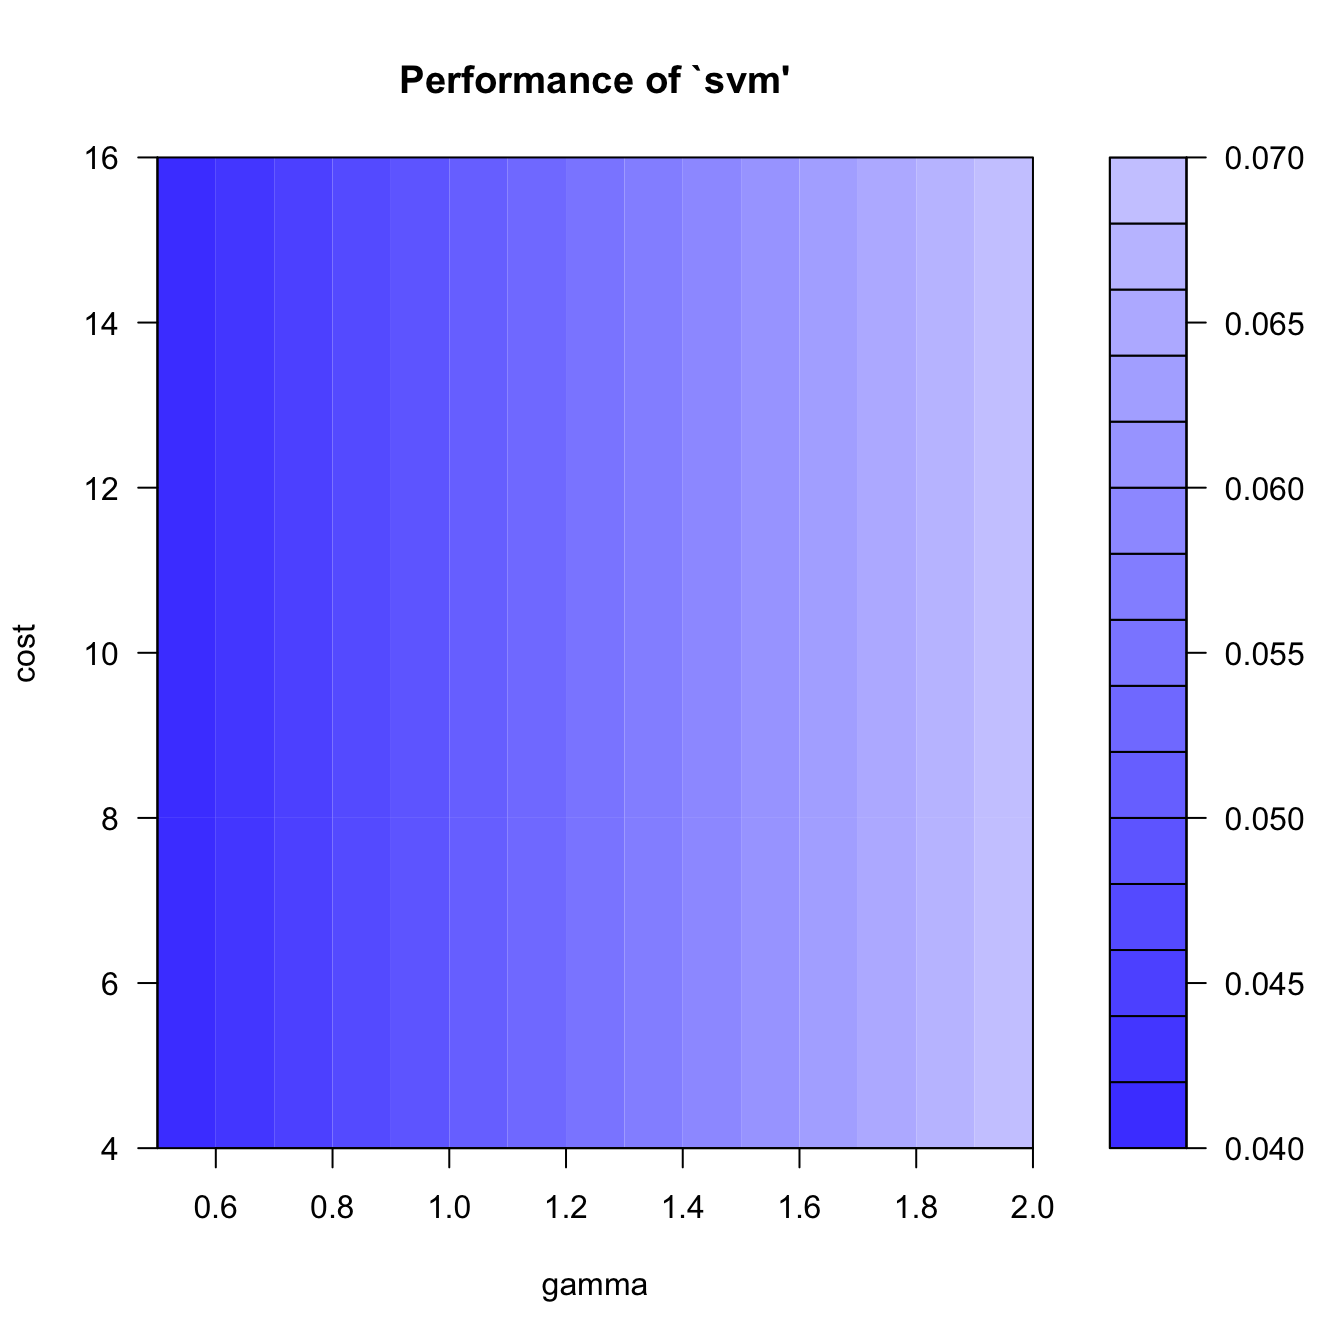
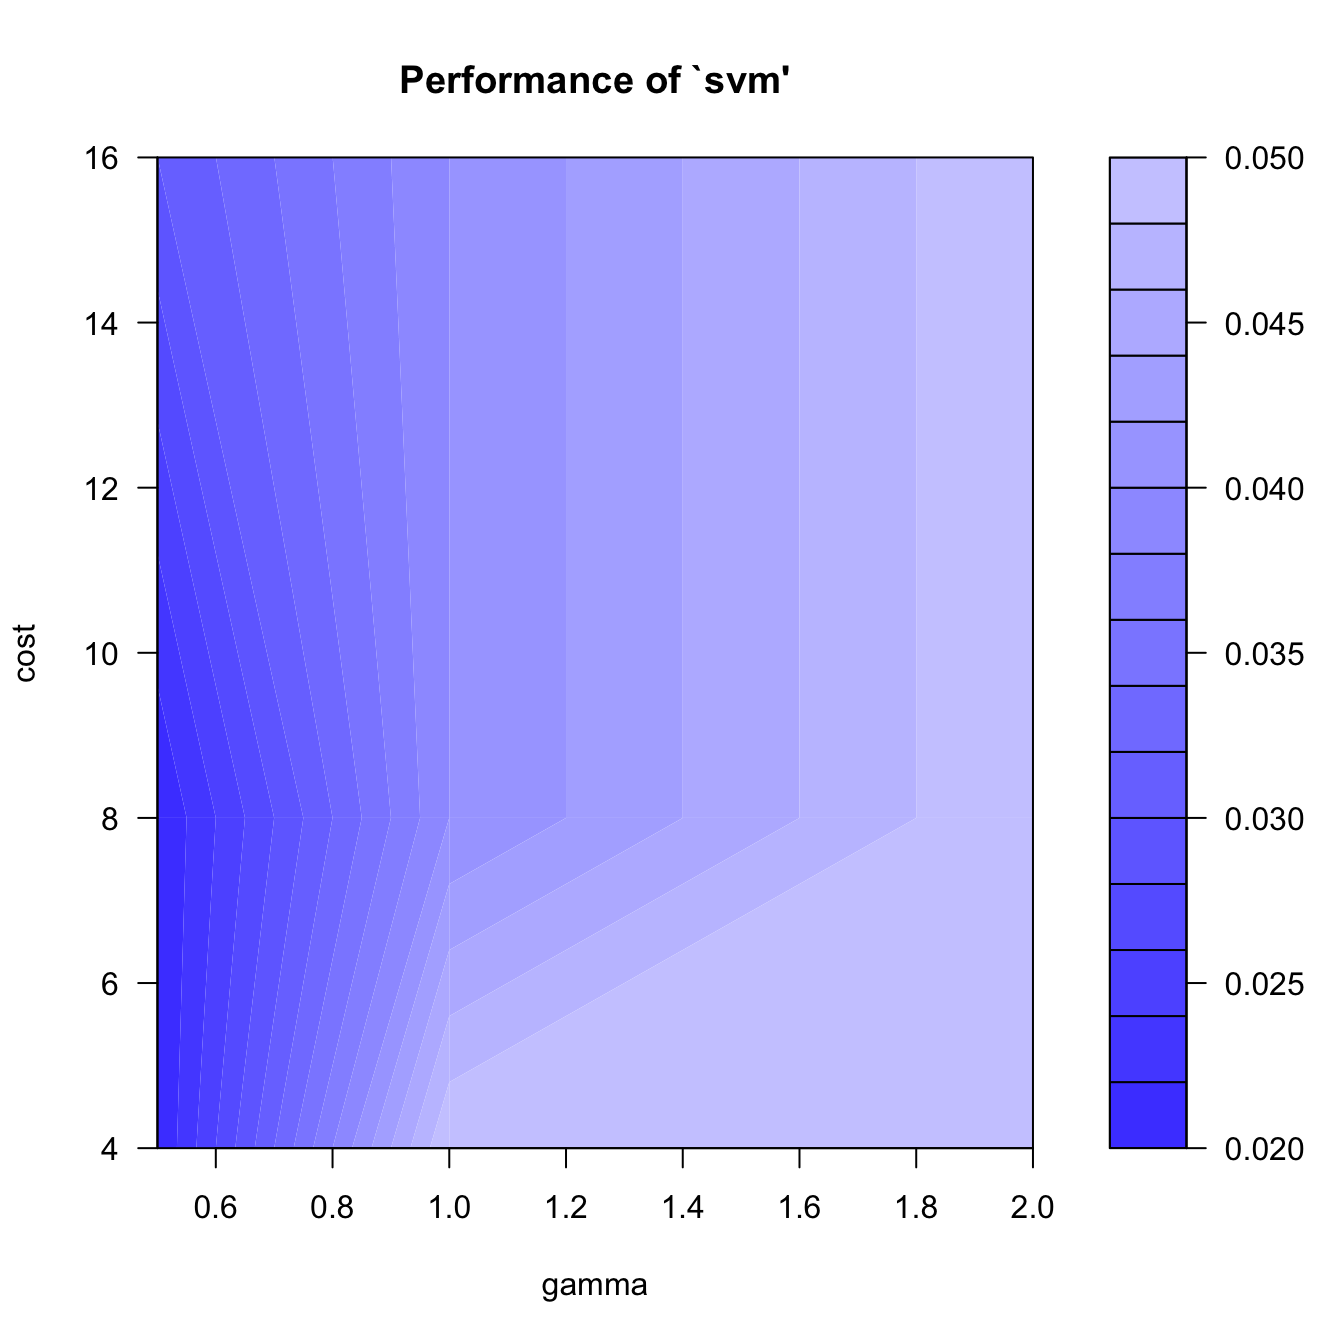
SVM tune

diff --git a/Anne/iris.html b/Anne/iris.html
@@ -11,7 +11,7 @@
 
 <meta name="author" content="Anne Badel" />
 
-<meta name="date" content="2019-03-01" />
+<meta name="date" content="2019-03-11" />
 
 <title>Les Iris</title>
 
@@ -26,8 +26,6 @@
 <script src="iris_files/tocify-1.9.1/jquery.tocify.js"></script>
 <script src="iris_files/navigation-1.1/tabsets.js"></script>
 <script src="iris_files/navigation-1.1/codefolding.js"></script>
-<link href="iris_files/pagedtable-1.1/css/pagedtable.css" rel="stylesheet" />
-<script src="iris_files/pagedtable-1.1/js/pagedtable.js"></script>
 
 
 <style type="text/css">code{white-space: pre;}</style>
@@ -361,7 +359,7 @@ div.tocify {
 
 <h1 class="title toc-ignore">Les Iris</h1>
 <h4 class="author"><em>Anne Badel</em></h4>
-<h4 class="date"><em>2019-03-01</em></h4>
+<h4 class="date"><em>2019-03-11</em></h4>
 
 </div>
 
@@ -421,17 +419,21 @@ specificite &lt;-<span class="st"> </span><span class="cf">function</span>(table
                 
                 </code></pre>
 <div class="sourceCode"><pre class="sourceCode r"><code class="sourceCode r"><span class="kw">head</span>(iris)</code></pre></div>
-<div data-pagedtable="false">
-<script data-pagedtable-source type="application/json">
-{"columns":[{"label":[""],"name":["_rn_"],"type":[""],"align":["left"]},{"label":["Sepal.Length"],"name":[1],"type":["dbl"],"align":["right"]},{"label":["Sepal.Width"],"name":[2],"type":["dbl"],"align":["right"]},{"label":["Petal.Length"],"name":[3],"type":["dbl"],"align":["right"]},{"label":["Petal.Width"],"name":[4],"type":["dbl"],"align":["right"]},{"label":["Species"],"name":[5],"type":["fctr"],"align":["left"]}],"data":[{"1":"5.1","2":"3.5","3":"1.4","4":"0.2","5":"setosa","_rn_":"1"},{"1":"4.9","2":"3.0","3":"1.4","4":"0.2","5":"setosa","_rn_":"2"},{"1":"4.7","2":"3.2","3":"1.3","4":"0.2","5":"setosa","_rn_":"3"},{"1":"4.6","2":"3.1","3":"1.5","4":"0.2","5":"setosa","_rn_":"4"},{"1":"5.0","2":"3.6","3":"1.4","4":"0.2","5":"setosa","_rn_":"5"},{"1":"5.4","2":"3.9","3":"1.7","4":"0.4","5":"setosa","_rn_":"6"}],"options":{"columns":{"min":{},"max":[10]},"rows":{"min":[10],"max":[10]},"pages":{}}}
-  </script>
-</div>
+<pre><code>  Sepal.Length Sepal.Width Petal.Length Petal.Width Species
+1          5.1         3.5          1.4         0.2  setosa
+2          4.9         3.0          1.4         0.2  setosa
+3          4.7         3.2          1.3         0.2  setosa
+4          4.6         3.1          1.5         0.2  setosa
+5          5.0         3.6          1.4         0.2  setosa
+6          5.4         3.9          1.7         0.4  setosa</code></pre>
 <div class="sourceCode"><pre class="sourceCode r"><code class="sourceCode r"><span class="kw">tail</span>(iris)</code></pre></div>
-<div data-pagedtable="false">
-<script data-pagedtable-source type="application/json">
-{"columns":[{"label":[""],"name":["_rn_"],"type":[""],"align":["left"]},{"label":["Sepal.Length"],"name":[1],"type":["dbl"],"align":["right"]},{"label":["Sepal.Width"],"name":[2],"type":["dbl"],"align":["right"]},{"label":["Petal.Length"],"name":[3],"type":["dbl"],"align":["right"]},{"label":["Petal.Width"],"name":[4],"type":["dbl"],"align":["right"]},{"label":["Species"],"name":[5],"type":["fctr"],"align":["left"]}],"data":[{"1":"6.7","2":"3.3","3":"5.7","4":"2.5","5":"virginica","_rn_":"145"},{"1":"6.7","2":"3.0","3":"5.2","4":"2.3","5":"virginica","_rn_":"146"},{"1":"6.3","2":"2.5","3":"5.0","4":"1.9","5":"virginica","_rn_":"147"},{"1":"6.5","2":"3.0","3":"5.2","4":"2.0","5":"virginica","_rn_":"148"},{"1":"6.2","2":"3.4","3":"5.4","4":"2.3","5":"virginica","_rn_":"149"},{"1":"5.9","2":"3.0","3":"5.1","4":"1.8","5":"virginica","_rn_":"150"}],"options":{"columns":{"min":{},"max":[10]},"rows":{"min":[10],"max":[10]},"pages":{}}}
-  </script>
-</div>
+<pre><code>    Sepal.Length Sepal.Width Petal.Length Petal.Width   Species
+145          6.7         3.3          5.7         2.5 virginica
+146          6.7         3.0          5.2         2.3 virginica
+147          6.3         2.5          5.0         1.9 virginica
+148          6.5         3.0          5.2         2.0 virginica
+149          6.2         3.4          5.4         2.3 virginica
+150          5.9         3.0          5.1         1.8 virginica</code></pre>
 <div class="sourceCode"><pre class="sourceCode r"><code class="sourceCode r"><span class="kw">str</span>(iris)</code></pre></div>
 <pre><code>&#39;data.frame&#39;:   150 obs. of  5 variables:
  $ Sepal.Length: num  5.1 4.9 4.7 4.6 5 5.4 4.6 5 4.4 4.9 ...
@@ -548,9 +550,9 @@ Parameters:
        cost:  1 
       gamma:  0.25 
 
-Number of Support Vectors:  33
+Number of Support Vectors:  32
 
- ( 14 5 14 )
+ ( 13 5 14 )
 
 
 Number of Classes:  3 
@@ -587,21 +589,21 @@ knitr<span class="op">::</span><span class="kw">kable</span>(iris.app.conf)</cod
 <tbody>
 <tr class="odd">
 <td>setosa</td>
-<td align="right">38</td>
+<td align="right">31</td>
 <td align="right">0</td>
 <td align="right">0</td>
 </tr>
 <tr class="even">
 <td>versicolor</td>
 <td align="right">0</td>
-<td align="right">29</td>
+<td align="right">31</td>
 <td align="right">0</td>
 </tr>
 <tr class="odd">
 <td>virginica</td>
 <td align="right">0</td>
 <td align="right">1</td>
-<td align="right">32</td>
+<td align="right">37</td>
 </tr>
 </tbody>
 </table>
@@ -646,7 +648,7 @@ knitr<span class="op">::</span><span class="kw">kable</span>(iris.val.conf)</cod
 <tbody>
 <tr class="odd">
 <td>setosa</td>
-<td align="right">12</td>
+<td align="right">19</td>
 <td align="right">0</td>
 <td align="right">0</td>
 </tr>
@@ -654,13 +656,13 @@ knitr<span class="op">::</span><span class="kw">kable</span>(iris.val.conf)</cod
 <td>versicolor</td>
 <td align="right">0</td>
 <td align="right">17</td>
-<td align="right">0</td>
+<td align="right">2</td>
 </tr>
 <tr class="odd">
 <td>virginica</td>
 <td align="right">0</td>
-<td align="right">3</td>
-<td align="right">18</td>
+<td align="right">1</td>
+<td align="right">11</td>
 </tr>
 </tbody>
 </table>
@@ -694,6 +696,8 @@ knitr<span class="op">::</span><span class="kw">kable</span>(perf.val)</code></p
 <h3><span class="header-section-number">2.2.2</span> Recherche des paramètres optimaux</h3>
 <div id="test-des-differents-kernel-avec-leurs-parametres-par-defaut" class="section level4">
 <h4><span class="header-section-number">2.2.2.1</span> Test des différents <code>kernel</code> avec leurs paramètres par défaut</h4>
+<div id="kernel-radial" class="section level5">
+<h5><span class="header-section-number">2.2.2.1.1</span> kernel = <code>radial</code></h5>
 <div class="sourceCode"><pre class="sourceCode r"><code class="sourceCode r">iris.svm.radial &lt;-<span class="st"> </span>e1071<span class="op">::</span><span class="kw">svm</span>(Species <span class="op">~</span><span class="st"> </span>., <span class="dt">data =</span> iris.app, <span class="dt">scale =</span> F)
 <span class="kw">summary</span>(iris.svm.radial)</code></pre></div>
 <pre><code>
@@ -707,9 +711,9 @@ Parameters:
        cost:  1 
       gamma:  0.25 
 
-Number of Support Vectors:  33
+Number of Support Vectors:  32
 
- ( 14 5 14 )
+ ( 13 5 14 )
 
 
 Number of Classes:  3 
@@ -718,8 +722,11 @@ Levels:
  setosa versicolor virginica</code></pre>
 <div class="sourceCode"><pre class="sourceCode r"><code class="sourceCode r">iris.app.conf.radial &lt;-<span class="st"> </span><span class="kw">table</span>(iris.svm.radial<span class="op">$</span>fitted, 
                               iris.app<span class="op">$</span>Species, 
-                              <span class="dt">dnn =</span> <span class="kw">c</span>(<span class="st">&quot;predit&quot;</span>, <span class="st">&quot;observe&quot;</span>))
-iris.svm.linear &lt;-<span class="st"> </span>e1071<span class="op">::</span><span class="kw">svm</span>(Species <span class="op">~</span><span class="st"> </span>., <span class="dt">data =</span> iris.app, <span class="dt">scale =</span> F, <span class="dt">kernel=</span><span class="st">&quot;linear&quot;</span>)
+                              <span class="dt">dnn =</span> <span class="kw">c</span>(<span class="st">&quot;predit&quot;</span>, <span class="st">&quot;observe&quot;</span>))</code></pre></div>
+</div>
+<div id="kernel-linear" class="section level5">
+<h5><span class="header-section-number">2.2.2.1.2</span> kernel = <code>linear</code></h5>
+<div class="sourceCode"><pre class="sourceCode r"><code class="sourceCode r">iris.svm.linear &lt;-<span class="st"> </span>e1071<span class="op">::</span><span class="kw">svm</span>(Species <span class="op">~</span><span class="st"> </span>., <span class="dt">data =</span> iris.app, <span class="dt">scale =</span> F, <span class="dt">kernel=</span><span class="st">&quot;linear&quot;</span>)
 <span class="kw">summary</span>(iris.svm.linear)</code></pre></div>
 <pre><code>
 Call:
@@ -733,9 +740,9 @@ Parameters:
        cost:  1 
       gamma:  0.25 
 
-Number of Support Vectors:  20
+Number of Support Vectors:  21
 
- ( 9 2 9 )
+ ( 8 2 11 )
 
 
 Number of Classes:  3 
@@ -744,8 +751,11 @@ Levels:
  setosa versicolor virginica</code></pre>
 <div class="sourceCode"><pre class="sourceCode r"><code class="sourceCode r">iris.app.conf.linear &lt;-<span class="st"> </span><span class="kw">table</span>(iris.svm.linear<span class="op">$</span>fitted, 
                               iris.app<span class="op">$</span>Species, 
-                              <span class="dt">dnn =</span> <span class="kw">c</span>(<span class="st">&quot;predit&quot;</span>, <span class="st">&quot;observe&quot;</span>))
-iris.svm.poly &lt;-<span class="st"> </span>e1071<span class="op">::</span><span class="kw">svm</span>(Species <span class="op">~</span><span class="st"> </span>., <span class="dt">data =</span> iris.app, <span class="dt">scale =</span> F, <span class="dt">kernel=</span><span class="st">&quot;polynomial&quot;</span>)
+                              <span class="dt">dnn =</span> <span class="kw">c</span>(<span class="st">&quot;predit&quot;</span>, <span class="st">&quot;observe&quot;</span>))</code></pre></div>
+</div>
+<div id="kernel-polynomial" class="section level5">
+<h5><span class="header-section-number">2.2.2.1.3</span> kernel = <code>polynomial</code></h5>
+<div class="sourceCode"><pre class="sourceCode r"><code class="sourceCode r">iris.svm.poly &lt;-<span class="st"> </span>e1071<span class="op">::</span><span class="kw">svm</span>(Species <span class="op">~</span><span class="st"> </span>., <span class="dt">data =</span> iris.app, <span class="dt">scale =</span> F, <span class="dt">kernel=</span><span class="st">&quot;polynomial&quot;</span>)
 <span class="kw">summary</span>(iris.svm.poly)</code></pre></div>
 <pre><code>
 Call:
@@ -763,7 +773,7 @@ Parameters:
 
 Number of Support Vectors:  10
 
- ( 3 3 4 )
+ ( 4 3 3 )
 
 
 Number of Classes:  3 
@@ -772,8 +782,11 @@ Levels:
  setosa versicolor virginica</code></pre>
 <div class="sourceCode"><pre class="sourceCode r"><code class="sourceCode r">iris.app.conf.poly &lt;-<span class="st"> </span><span class="kw">table</span>(iris.svm.poly<span class="op">$</span>fitted, 
                               iris.app<span class="op">$</span>Species, 
-                              <span class="dt">dnn =</span> <span class="kw">c</span>(<span class="st">&quot;predit&quot;</span>, <span class="st">&quot;observe&quot;</span>))
-iris.svm.sig &lt;-<span class="st"> </span>e1071<span class="op">::</span><span class="kw">svm</span>(Species <span class="op">~</span><span class="st"> </span>., <span class="dt">data =</span> iris.app, <span class="dt">scale =</span> F, <span class="dt">kernel=</span><span class="st">&quot;sigmoid&quot;</span>)
+                              <span class="dt">dnn =</span> <span class="kw">c</span>(<span class="st">&quot;predit&quot;</span>, <span class="st">&quot;observe&quot;</span>))</code></pre></div>
+</div>
+<div id="kernel-sigmoide" class="section level5">
+<h5><span class="header-section-number">2.2.2.1.4</span> kernel = <code>sigmoide</code></h5>
+<div class="sourceCode"><pre class="sourceCode r"><code class="sourceCode r">iris.svm.sig &lt;-<span class="st"> </span>e1071<span class="op">::</span><span class="kw">svm</span>(Species <span class="op">~</span><span class="st"> </span>., <span class="dt">data =</span> iris.app, <span class="dt">scale =</span> F, <span class="dt">kernel=</span><span class="st">&quot;sigmoid&quot;</span>)
 <span class="kw">summary</span>(iris.svm.sig)</code></pre></div>
 <pre><code>
 Call:
@@ -788,9 +801,9 @@ Parameters:
       gamma:  0.25 
      coef.0:  0 
 
-Number of Support Vectors:  94
+Number of Support Vectors:  95
 
- ( 30 32 32 )
+ ( 32 31 32 )
 
 
 Number of Classes:  3 
@@ -813,24 +826,30 @@ knitr<span class="op">::</span><span class="kw">kable</span>(iris.app.conf.radia
 <tbody>
 <tr class="odd">
 <td>setosa</td>
-<td align="right">38</td>
+<td align="right">31</td>
 <td align="right">0</td>
 <td align="right">0</td>
 </tr>
 <tr class="even">
 <td>versicolor</td>
 <td align="right">0</td>
-<td align="right">29</td>
+<td align="right">31</td>
 <td align="right">0</td>
 </tr>
 <tr class="odd">
 <td>virginica</td>
 <td align="right">0</td>
 <td align="right">1</td>
-<td align="right">32</td>
+<td align="right">37</td>
 </tr>
 </tbody>
 </table>
+</div>
+</div>
+<div id="les-performances" class="section level4">
+<h4><span class="header-section-number">2.2.2.2</span> Les performances</h4>
+<div id="en-apprentissage" class="section level5">
+<h5><span class="header-section-number">2.2.2.2.1</span> en apprentissage</h5>
 <div class="sourceCode"><pre class="sourceCode r"><code class="sourceCode r">acc.app.radial &lt;-<span class="st"> </span><span class="kw">tx.bon</span>(iris.app.conf.radial)
 err.app.radial &lt;-<span class="st"> </span><span class="kw">tx.erreur</span>(iris.app.conf.radial)
 perf.app.radial &lt;-<span class="st"> </span><span class="kw">c</span>(acc.app.radial, err.app.radial)
@@ -867,21 +886,21 @@ knitr<span class="op">::</span><span class="kw">kable</span>(perf.app.radial)</c
 <tbody>
 <tr class="odd">
 <td>setosa</td>
-<td align="right">38</td>
+<td align="right">31</td>
 <td align="right">0</td>
 <td align="right">0</td>
 </tr>
 <tr class="even">
 <td>versicolor</td>
 <td align="right">0</td>
-<td align="right">30</td>
+<td align="right">31</td>
 <td align="right">0</td>
 </tr>
 <tr class="odd">
 <td>virginica</td>
 <td align="right">0</td>
-<td align="right">0</td>
-<td align="right">32</td>
+<td align="right">1</td>
+<td align="right">37</td>
 </tr>
 </tbody>
 </table>
@@ -900,11 +919,11 @@ knitr<span class="op">::</span><span class="kw">kable</span>(perf.app.linear)</c
 <tbody>
 <tr class="odd">
 <td>accuracy</td>
-<td align="right">1</td>
+<td align="right">0.99</td>
 </tr>
 <tr class="even">
 <td>erreur</td>
-<td align="right">0</td>
+<td align="right">0.01</td>
 </tr>
 </tbody>
 </table>
@@ -921,21 +940,21 @@ knitr<span class="op">::</span><span class="kw">kable</span>(perf.app.linear)</c
 <tbody>
 <tr class="odd">
 <td>setosa</td>
-<td align="right">38</td>
+<td align="right">31</td>
 <td align="right">0</td>
 <td align="right">0</td>
 </tr>
 <tr class="even">
 <td>versicolor</td>
 <td align="right">0</td>
-<td align="right">30</td>
+<td align="right">32</td>
 <td align="right">0</td>
 </tr>
 <tr class="odd">
 <td>virginica</td>
 <td align="right">0</td>
 <td align="right">0</td>
-<td align="right">32</td>
+<td align="right">37</td>
 </tr>
 </tbody>
 </table>
@@ -975,9 +994,9 @@ knitr<span class="op">::</span><span class="kw">kable</span>(perf.app.poly)</cod
 <tbody>
 <tr class="odd">
 <td>setosa</td>
-<td align="right">38</td>
-<td align="right">30</td>
-<td align="right">32</td>
+<td align="right">0</td>
+<td align="right">0</td>
+<td align="right">0</td>
 </tr>
 <tr class="even">
 <td>versicolor</td>
@@ -987,9 +1006,9 @@ knitr<span class="op">::</span><span class="kw">kable</span>(perf.app.poly)</cod
 </tr>
 <tr class="odd">
 <td>virginica</td>
-<td align="right">0</td>
-<td align="right">0</td>
-<td align="right">0</td>
+<td align="right">31</td>
+<td align="right">32</td>
+<td align="right">37</td>
 </tr>
 </tbody>
 </table>
@@ -1008,19 +1027,20 @@ knitr<span class="op">::</span><span class="kw">kable</span>(perf.app.sig)</code
 <tbody>
 <tr class="odd">
 <td>accuracy</td>
-<td align="right">0.38</td>
+<td align="right">0.37</td>
 </tr>
 <tr class="even">
 <td>erreur</td>
-<td align="right">0.62</td>
+<td align="right">0.63</td>
 </tr>
 </tbody>
 </table>
 </div>
+</div>
 <div id="en-laissant-faire-par-la-fonction-tune" class="section level4">
-<h4><span class="header-section-number">2.2.2.2</span> En laissant faire par la fonction <code>tune</code></h4>
+<h4><span class="header-section-number">2.2.2.3</span> En laissant faire par la fonction <code>tune</code></h4>
 <div id="avec-me-kernelpar-defaut-radial" class="section level5">
-<h5><span class="header-section-number">2.2.2.2.1</span> Avec me <code>kernel</code>par défaut, <code>radial</code></h5>
+<h5><span class="header-section-number">2.2.2.3.1</span> Avec me <code>kernel</code>par défaut, <code>radial</code></h5>
 <div class="sourceCode"><pre class="sourceCode r"><code class="sourceCode r">iris.app.tune &lt;-<span class="st"> </span>e1071<span class="op">::</span><span class="kw">tune</span>(svm, Species <span class="op">~</span><span class="st"> </span>., <span class="dt">data =</span> iris.app,
                              <span class="dt">ranges =</span> <span class="kw">list</span>(<span class="dt">gamma =</span> <span class="dv">2</span><span class="op">^</span>(<span class="op">-</span><span class="dv">1</span><span class="op">:</span><span class="dv">1</span>), <span class="dt">cost =</span> <span class="dv">2</span><span class="op">^</span>(<span class="dv">2</span><span class="op">:</span><span class="dv">4</span>)))
 <span class="kw">summary</span>(iris.app.tune)</code></pre></div>
@@ -1033,19 +1053,19 @@ Parameter tuning of &#39;svm&#39;:
  gamma cost
    0.5    4
 
-- best performance: 0.04 
+- best performance: 0.02 
 
 - Detailed performance results:
   gamma cost error dispersion
-1   0.5    4  0.04 0.05163978
+1   0.5    4  0.02 0.04216370
 2   1.0    4  0.05 0.05270463
-3   2.0    4  0.07 0.08232726
-4   0.5    8  0.04 0.05163978
-5   1.0    8  0.05 0.05270463
-6   2.0    8  0.07 0.08232726
-7   0.5   16  0.04 0.05163978
-8   1.0   16  0.05 0.05270463
-9   2.0   16  0.07 0.08232726</code></pre>
+3   2.0    4  0.05 0.05270463
+4   0.5    8  0.02 0.04216370
+5   1.0    8  0.04 0.05163978
+6   2.0    8  0.05 0.05270463
+7   0.5   16  0.03 0.04830459
+8   1.0   16  0.04 0.05163978
+9   2.0   16  0.05 0.05270463</code></pre>
 <div class="sourceCode"><pre class="sourceCode r"><code class="sourceCode r"><span class="kw">plot</span>(iris.app.tune)</code></pre></div>
 <p><img src="figures/iris_svm.tune-1.png" width="672" style="display: block; margin: auto;" /></p>
 </div>
